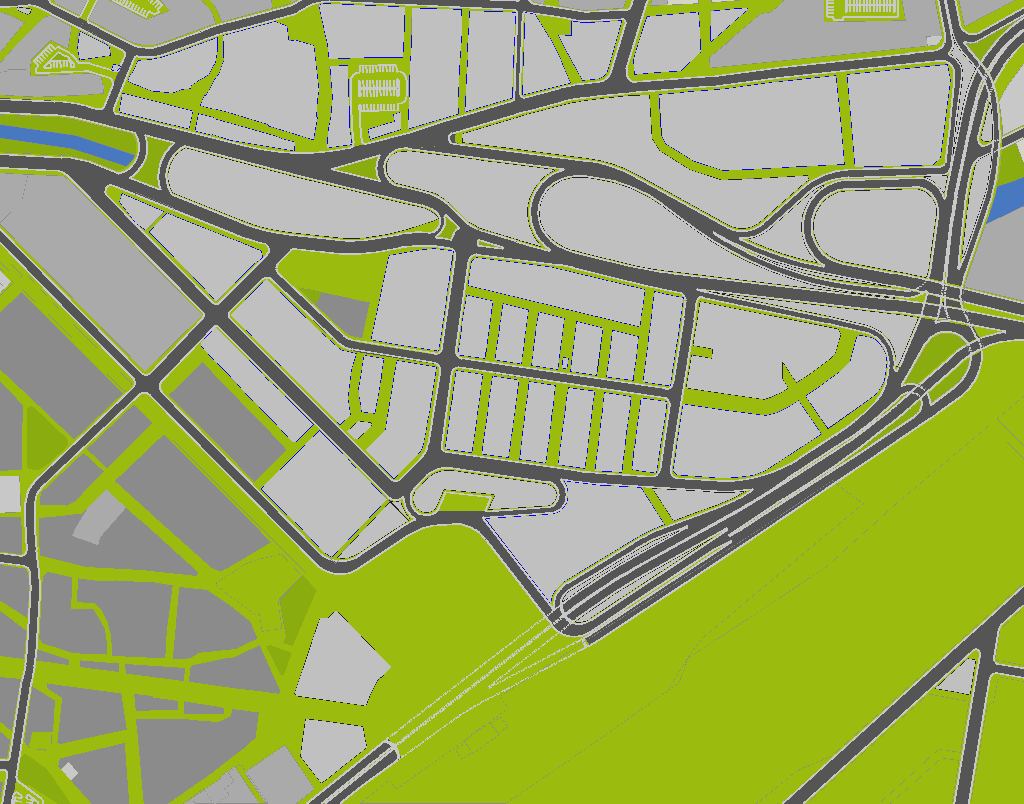
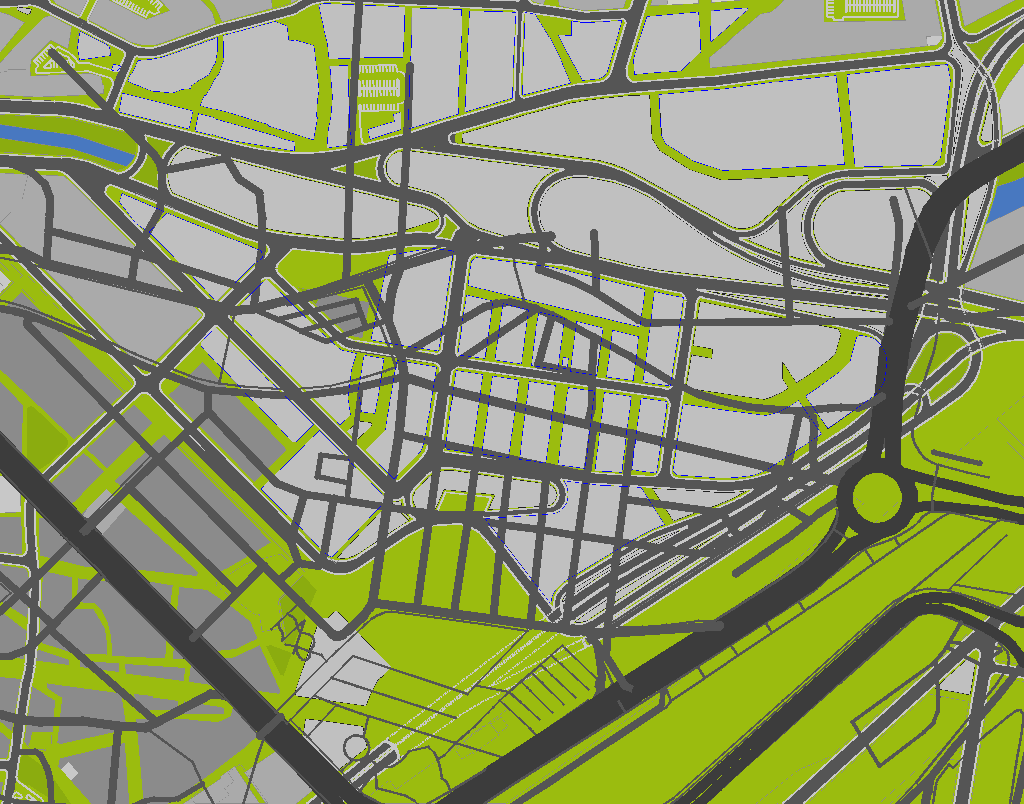
Yollar geri geldi: OSM yol agi kalibre cerceveyle cizildi (hizasizlik cercevedeymis — 43/67 kesim -> 2/14 sadece kopruler) + onbellegi

diff --git a/mapdata/remap_gb.py b/mapdata/remap_gb.py
@@ -44,6 +44,9 @@ def en_yakin(c):
 # harita penceresi (harita_uret.py meta'sindan, carpisma.json ile ayni cerceve)
 OX, OY = 575867.03, 4388840.62  # UTM 35N min kose
 W_M, H_M = 764.34, 600.0
+# 22.10.2026 saha kalibrasyonu (config.ts GPS_CAL ile AYNI): eski OSM ciziminin
+# "hizasizligi" yol verisinde degil cercevedeydi — kalibrasyonla birlikte dogru oturur.
+CAL_DX, CAL_DY = -40.0, 184.0
 
 GENISLIK = {  # highway tipi -> yol genisligi (m)
     "motorway": 12, "trunk": 12, "primary": 10, "secondary": 8,
@@ -52,6 +55,13 @@ GENISLIK = {  # highway tipi -> yol genisligi (m)
 }
 
 def osm_yollar():
+    # once yerel onbellege bak (Overpass sunuculari kararsiz)
+    onbel = os.path.join(BASE, "uretim", "osm_yollar.json")
+    if os.path.exists(onbel):
+        data = json.load(open(onbel, encoding="utf-8"))
+        print("OSM yollari yerel onbellegten")
+        return _yollari_isle(data)
+
     from pyproj import Transformer
     t_wgs = Transformer.from_crs("EPSG:32635", "EPSG:4326", always_xy=True)  # utm->wgs84
     t_utm = Transformer.from_crs("EPSG:4326", "EPSG:32635", always_xy=True)  # wgs84->utm
@@ -60,9 +70,24 @@ def osm_yollar():
     bbox = f"{lat_min},{lon_min},{lat_max},{lon_max}"
     sorgu = f'[out:json][timeout:60];(way["highway"]({bbox}););(._;>;);out;'
     url = "https://overpass-api.de/api/interpreter?data=" + urllib.parse.quote(sorgu)
-    istek = urllib.request.Request(url, headers={"User-Agent": "krater-map/1.0 (yerel harita)"})
-    with urllib.request.urlopen(istek, timeout=120) as r:
-        data = json.loads(r.read().decode())
+    data = None
+    for taban in ["https://overpass-api.de/api/interpreter?data=", "https://overpass.kumi.systems/api/interpreter?data="]:
+        try:
+            istek = urllib.request.Request(taban + urllib.parse.quote(sorgu), headers={"User-Agent": "krater-map/1.0 (yerel harita)"})
+            with urllib.request.urlopen(istek, timeout=120) as r:
+                data = json.loads(r.read().decode())
+            break
+        except Exception:
+            continue
+    if data is None:
+        raise RuntimeError("Overpass aynalari basarisiz")
+    json.dump(data, open(onbel, "w", encoding="utf-8"), ensure_ascii=False)
+    return _yollari_isle(data)
+
+
+def _yollari_isle(data):
+    from pyproj import Transformer
+    t_utm = Transformer.from_crs("EPSG:4326", "EPSG:32635", always_xy=True)
     nodeler = {e["id"]: (e["lon"], e["lat"]) for e in data["elements"] if e["type"] == "node"}
     yollar = []
     for e in data["elements"]:
@@ -89,7 +114,8 @@ def ciz_yollar(img):
         gen = GENISLIK[hw]
         w_px = max(2, round(gen * s))
         renk = (60, 60, 60) if gen >= 8 else (85, 85, 85)  # ana yollar daha koyu
-        px = [((x - OX) * s, (H_M - (y - OY)) * s) for x, y in pts]
+        # kalibre cerceve: xm = (x-OX)+CAL_DX, ym = (y-OY)-CAL_DY
+        px = [((x - OX + CAL_DX) * s, (H_M - (y - OY - CAL_DY)) * s) for x, y in pts]
         # segment cizgileri + dugum noktalari (kose boslugu kalmasin)
         for a, b in zip(px, px[1:]):
             d.line([a, b], fill=renk, width=w_px)
